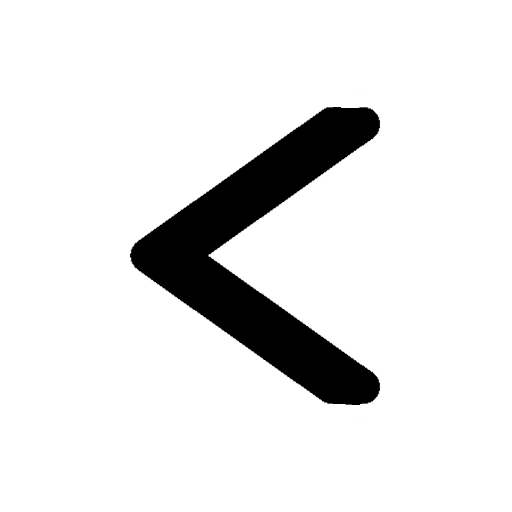
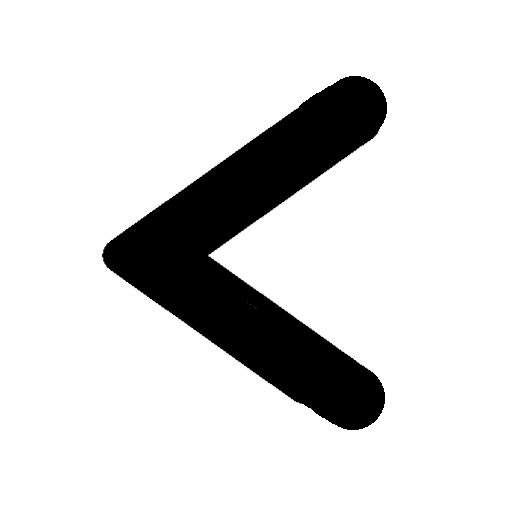
VAIBHAV 24/04 08:36

Changed region(s): [[0.1875, 0.125, 0.7812, 0.8438]]

diff --git a/client/src/components/Dashboard.jsx b/client/src/components/Dashboard.jsx
@@ -192,7 +192,7 @@ class Dashboard extends Component {
                     style={this.state.styleChartButton}
                     onClick={this.toggleComponent}
                   >
-                    <p>MY MEAL</p>
+                    MY MEAL
                   </div>
                 </div>
               </div>

diff --git a/client/src/components/Dashboard.css b/client/src/components/Dashboard.css
@@ -244,9 +244,10 @@
 .chart_button {
   position: absolute;
   font-family: "Nunito", sans-serif;
-  max-height: 40px;
-  max-width: 140px;
-  width: 50%;
+  height: fit-content;
+  width: fit-content;
+  /* max-height: 40px;
+  max-width: 140px; */
   cursor: pointer;
   text-align: center;
   border: 0px solid black;

diff --git a/client/src/components/BackButton.css b/client/src/components/BackButton.css
@@ -1,7 +1,7 @@
 .back_button {
   cursor: pointer;
   position: absolute;
-  background: url("./less_than_icon.png");
+  background: url("./less_than_icon2.png");
   background-size: cover;
   left: 10px;
   top: 10px;
